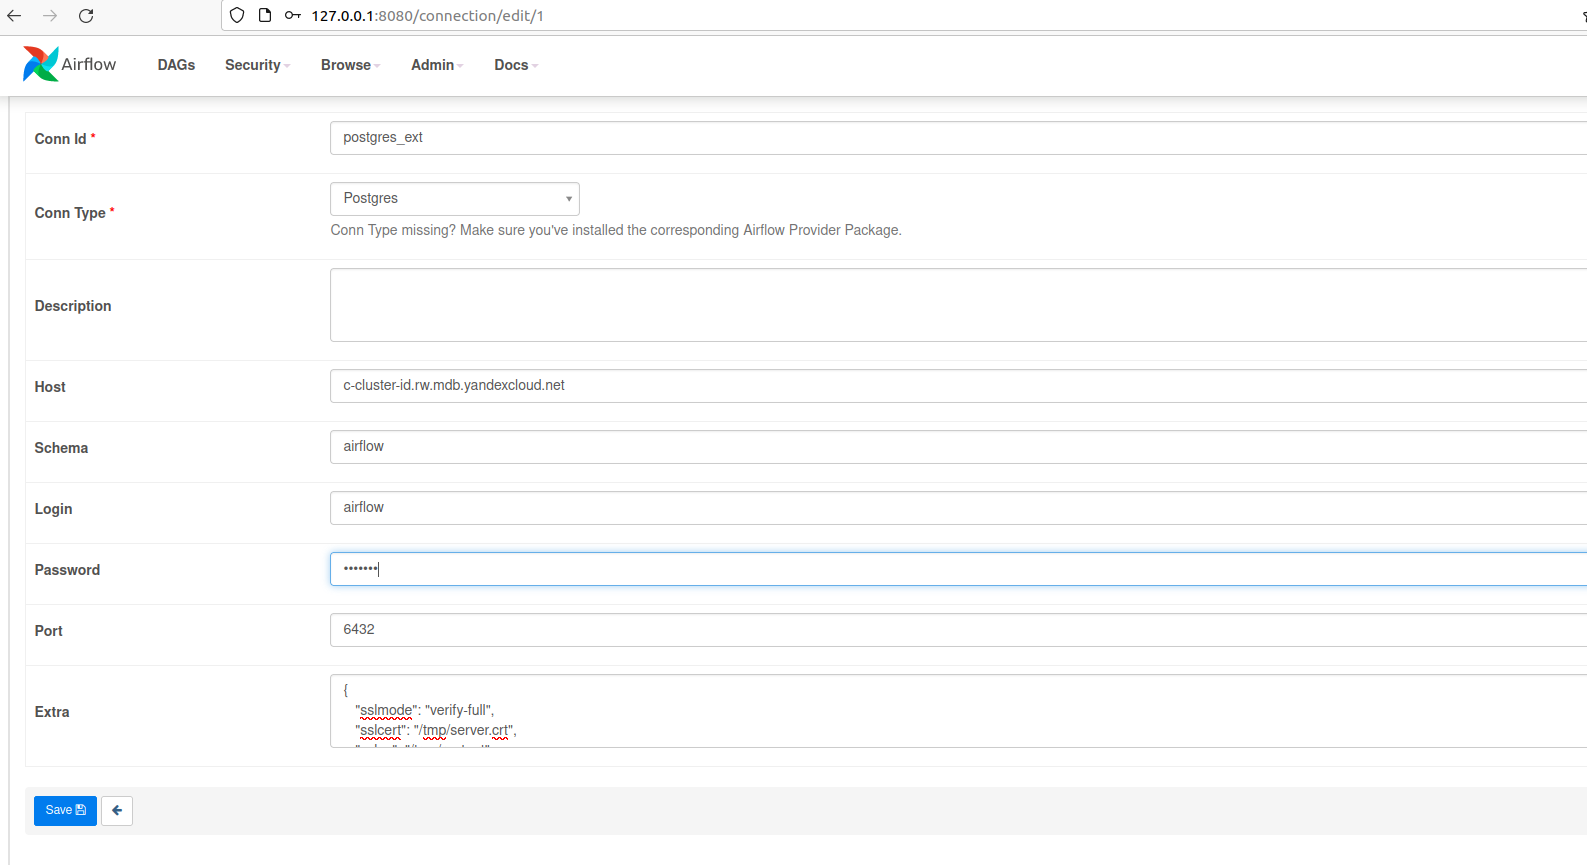
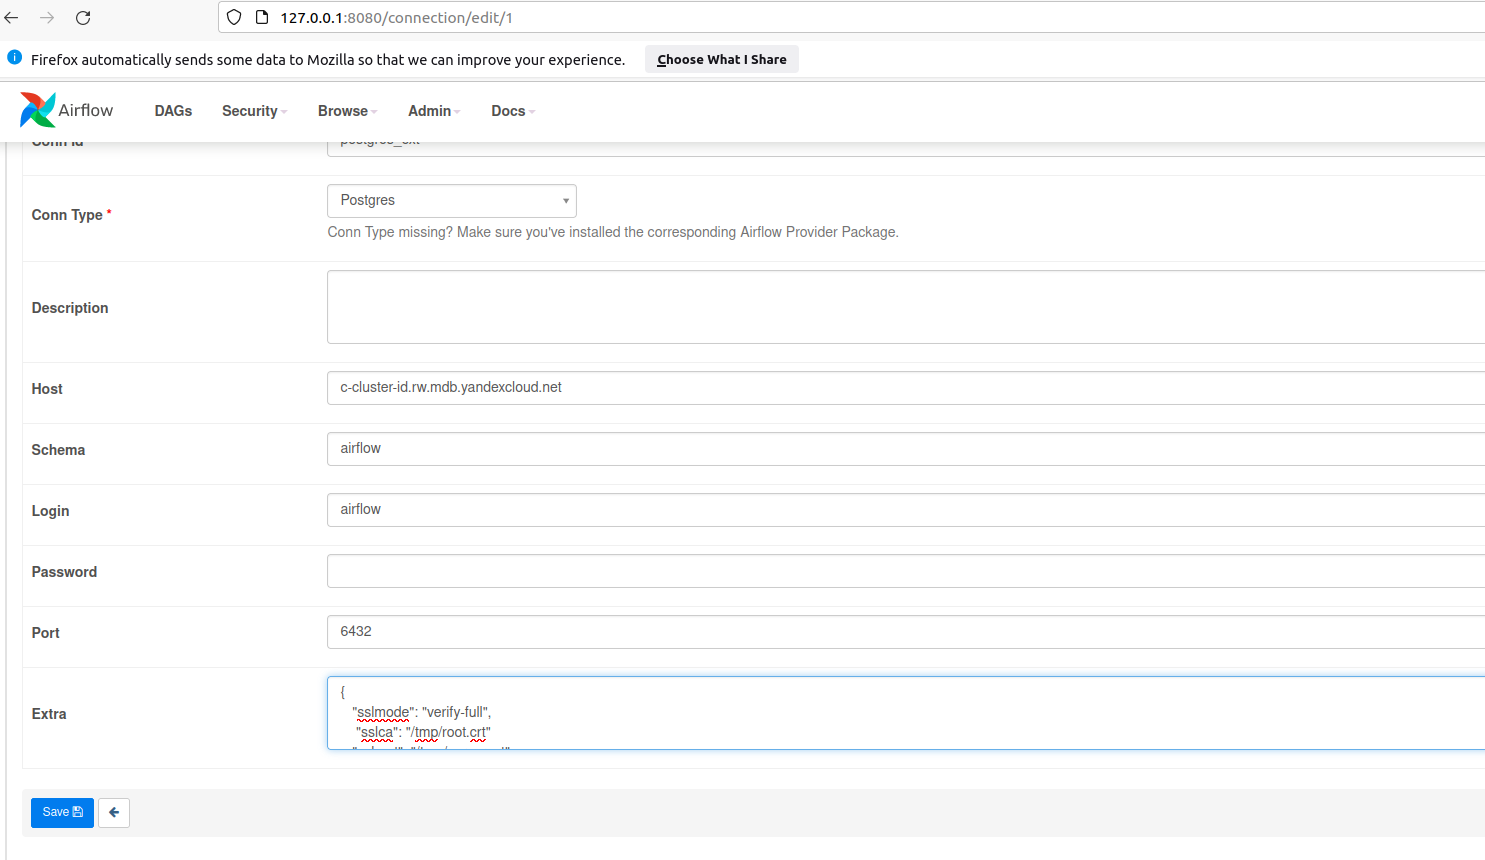
Add files via upload

diff --git a/airflow/README.MD b/airflow/README.MD
@@ -5,7 +5,7 @@
 3) Проиницилизировать airflow, выполнив в терминале команду "docker-compose up airflow-init"
 4) Запустить airflow выполнив команду "docker-compose up -d"
 5) Залогиниться в UI консоли airflow "http://IP_ADDRESS:8080" (login: airflow; password: airflow)
-6) Зайти в  "/connection/list/" и создать подключение к службе Yandex.Postgres (скриншот с настройками прилагается)
-7) Поместить в папку ./dags файл pg_dag.py 
+6) Зайти в  "/connection/list/" и создать подключение к службе Yandex.Postgres (скриншот с настройками прилагается) - прописать путь к ssl сертификату
+7) Поместить в папку ./dags файл pg_dag.py и в папку ./tmp ssl сертификат от Yandex.Postgres - в случае проблем с соединением к Yandex.Postgres рестартануть docker-compose
 8) В списке dags найти "postgres_operator_dag" запустить его вручную (если вновь созданный dag отсутствует рестартануть docker-compose)
 9) Зайти в Yandex.Postgres и убедиться что таблица "test" создана 
